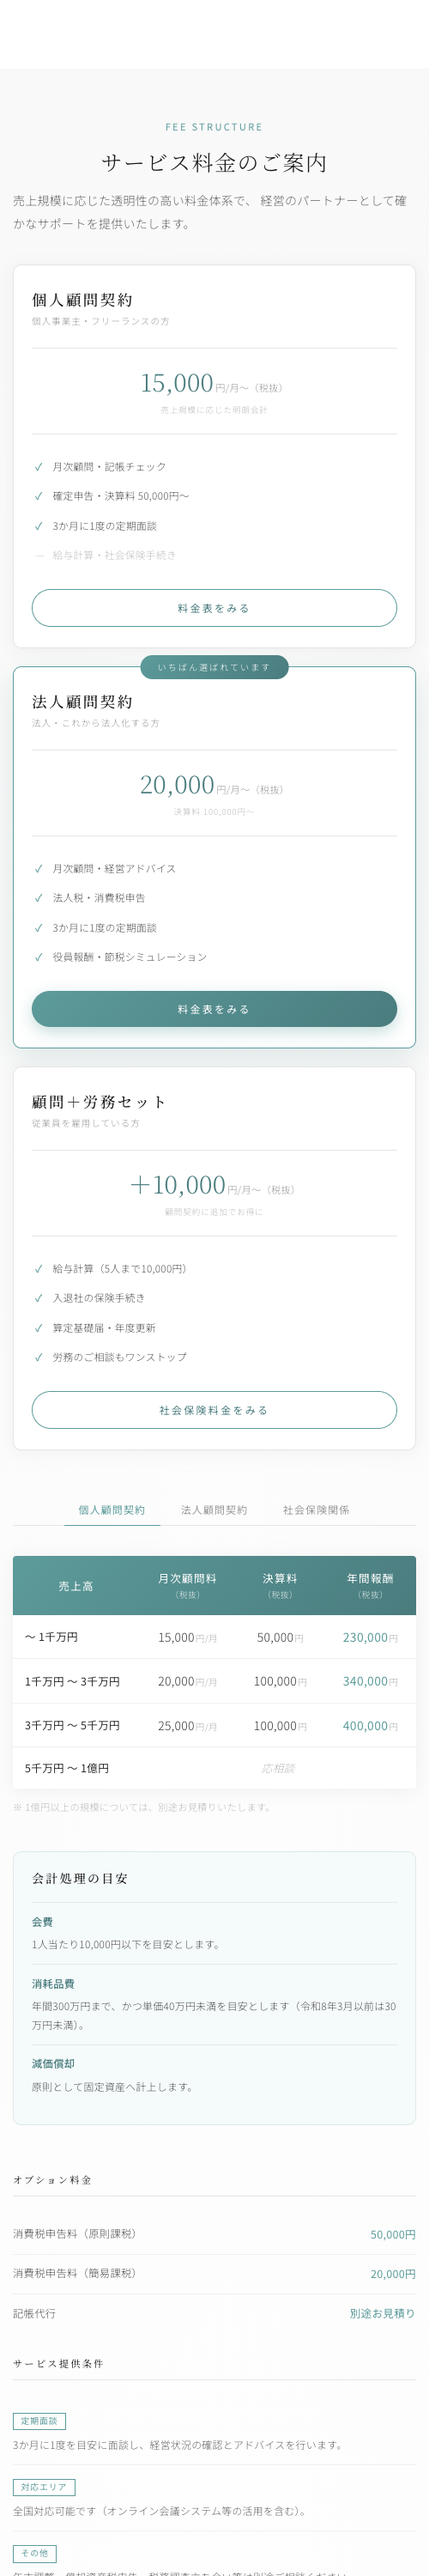
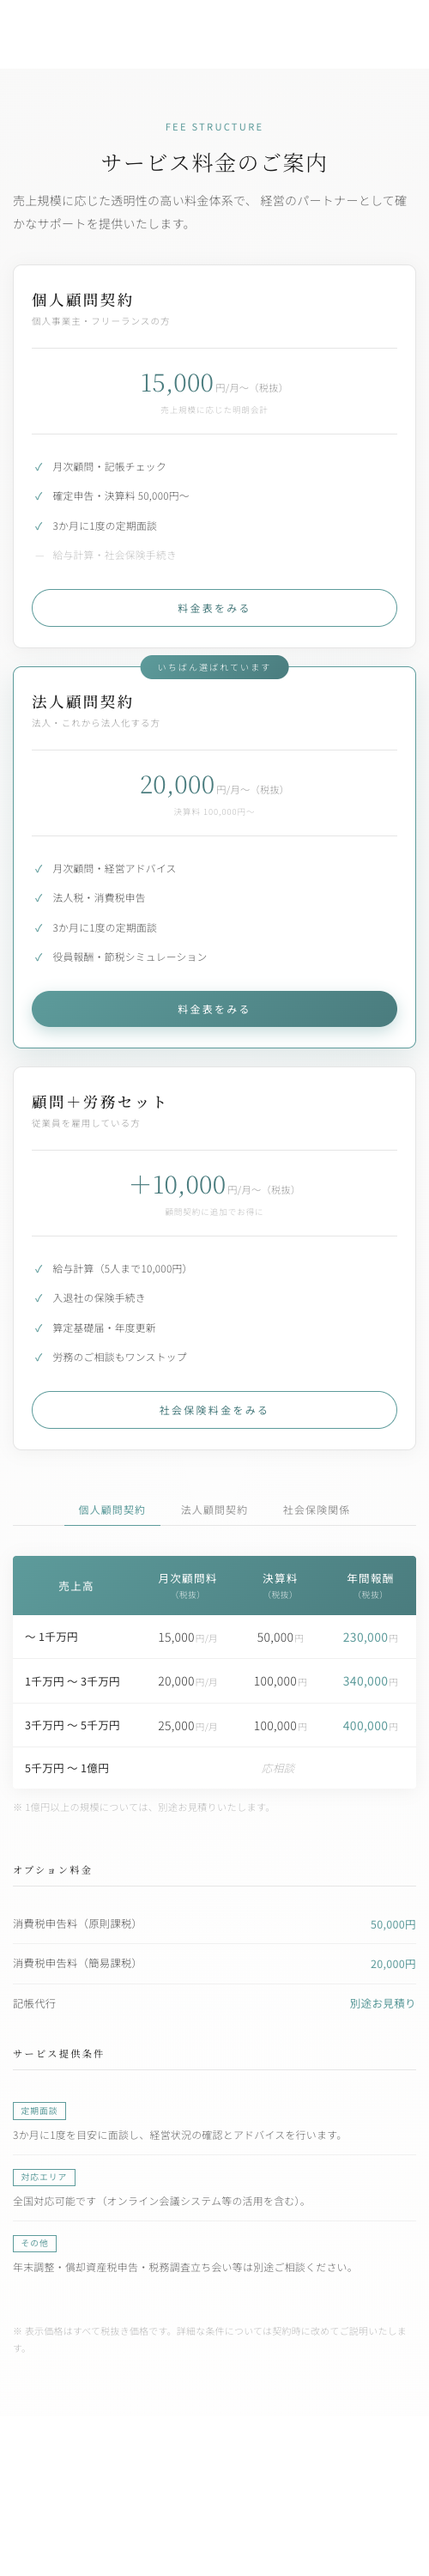
MIKANOS: 続けて — 完了

diff --git a/.ai/visual-parity/capture-pricing-parity.js b/.ai/visual-parity/capture-pricing-parity.js
@@ -1,0 +1,46 @@
+const { chromium } = require('/Users/FISH/.npm/_npx/e41f203b7505f1fb/node_modules/playwright');
+const path = require('path');
+
+const baseUrl = 'http://127.0.0.1:4173';
+const outputDir = path.resolve(__dirname);
+
+async function capture(page, url, output, width, height) {
+  await page.setViewportSize({ width, height });
+  await page.goto(url, { waitUntil: 'networkidle' });
+  await page.screenshot({
+    path: path.join(outputDir, output),
+    clip: { x: 0, y: 0, width, height },
+  });
+}
+
+(async () => {
+  const browser = await chromium.launch({
+    headless: true,
+    executablePath: '/Applications/Google Chrome.app/Contents/MacOS/Google Chrome',
+    args: ['--profile-directory=Profile 1'],
+  });
+  const page = await browser.newPage();
+
+  await capture(page, `${baseUrl}/design/html/pricing-cr001.html`, 'pricing-reference-1440.png', 1440, 5000);
+  await capture(page, `${baseUrl}/.ai/visual-parity/pricing-app-harness.html`, 'pricing-actual-1440.png', 1440, 5000);
+  await capture(page, `${baseUrl}/design/html/pricing-cr001.html`, 'pricing-reference-500.png', 500, 3000);
+  await capture(page, `${baseUrl}/.ai/visual-parity/pricing-app-harness.html`, 'pricing-actual-500.png', 500, 3000);
+
+  await page.setViewportSize({ width: 390, height: 844 });
+  await page.goto(`${baseUrl}/.ai/visual-parity/pricing-app-harness.html`, { waitUntil: 'networkidle' });
+  const removedTextCount = await page.getByText('会計処理の目安', { exact: true }).count();
+  const overflow = await page.evaluate(() => ({
+    pageScrollWidth: document.documentElement.scrollWidth,
+    pageClientWidth: document.documentElement.clientWidth,
+  }));
+  const corporateButton = page.locator('[data-tab-link="hojin"]');
+  await corporateButton.click();
+  const activeCorporateTab = await page.locator('#tab-hojin.active').count();
+
+  if (removedTextCount !== 0 || activeCorporateTab !== 1 || overflow.pageScrollWidth !== overflow.pageClientWidth) {
+    throw new Error(JSON.stringify({ removedTextCount, activeCorporateTab, overflow }));
+  }
+  process.stdout.write(`${JSON.stringify({ removedTextCount, activeCorporateTab, overflow })}\n`);
+
+  await browser.close();
+})();

diff --git a/components/pricing/pricing.css b/components/pricing/pricing.css
@@ -319,52 +319,6 @@
     font-weight: 300;
 }
 
-/* 会計処理の目安 */
-.accounting-guidance {
-    margin-top: 3rem;
-    padding: 2rem 2.25rem;
-    background: #f5fafa;
-    border: 1px solid #dceaea;
-    border-radius: 10px;
-}
-
-.accounting-guidance-title {
-    margin: 0 0 1.25rem;
-    color: #1a1a1a;
-    font-family: 'Noto Serif JP', serif;
-    font-size: 1rem;
-    font-weight: 500;
-    letter-spacing: 0.16em;
-}
-
-.accounting-guidance-list {
-    display: grid;
-    gap: 0;
-    margin: 0;
-}
-
-.accounting-guidance-item {
-    display: grid;
-    grid-template-columns: 8rem 1fr;
-    gap: 1.25rem;
-    padding: 0.9rem 0;
-    border-top: 1px solid #dceaea;
-}
-
-.accounting-guidance-item dt {
-    color: #4A7C7E;
-    font-size: 0.88rem;
-    font-weight: 500;
-}
-
-.accounting-guidance-item dd {
-    margin: 0;
-    color: #555;
-    font-size: 0.85rem;
-    font-weight: 300;
-    line-height: 1.8;
-}
-
 /* プラン概要カード */
 .plan-cards {
     display: grid;
@@ -697,14 +651,6 @@
         padding: 1.5rem 1.25rem;
     }
 
-    .accounting-guidance {
-        padding: 1.5rem;
-    }
-
-    .accounting-guidance-item {
-        grid-template-columns: 1fr;
-        gap: 0.35rem;
-    }
 }
 
 @media (max-width: 640px) {

diff --git a/design/html/pricing-cr001.css b/design/html/pricing-cr001.css
@@ -319,52 +319,6 @@
     font-weight: 300;
 }
 
-/* 会計処理の目安 */
-.accounting-guidance {
-    margin-top: 3rem;
-    padding: 2rem 2.25rem;
-    background: #f5fafa;
-    border: 1px solid #dceaea;
-    border-radius: 10px;
-}
-
-.accounting-guidance-title {
-    margin: 0 0 1.25rem;
-    color: #1a1a1a;
-    font-family: 'Noto Serif JP', serif;
-    font-size: 1rem;
-    font-weight: 500;
-    letter-spacing: 0.16em;
-}
-
-.accounting-guidance-list {
-    display: grid;
-    gap: 0;
-    margin: 0;
-}
-
-.accounting-guidance-item {
-    display: grid;
-    grid-template-columns: 8rem 1fr;
-    gap: 1.25rem;
-    padding: 0.9rem 0;
-    border-top: 1px solid #dceaea;
-}
-
-.accounting-guidance-item dt {
-    color: #4A7C7E;
-    font-size: 0.88rem;
-    font-weight: 500;
-}
-
-.accounting-guidance-item dd {
-    margin: 0;
-    color: #555;
-    font-size: 0.85rem;
-    font-weight: 300;
-    line-height: 1.8;
-}
-
 /* プラン概要カード */
 .plan-cards {
     display: grid;
@@ -697,14 +651,6 @@
         padding: 1.5rem 1.25rem;
     }
 
-    .accounting-guidance {
-        padding: 1.5rem;
-    }
-
-    .accounting-guidance-item {
-        grid-template-columns: 1fr;
-        gap: 0.35rem;
-    }
 }
 
 @media (max-width: 640px) {

diff --git a/components/pricing/pricing.html b/components/pricing/pricing.html
@@ -384,25 +384,6 @@
             </p>
         </div>
 
-        <!-- 会計処理の目安 -->
-        <aside class="accounting-guidance" aria-labelledby="accounting-guidance-title">
-            <h3 class="accounting-guidance-title" id="accounting-guidance-title">会計処理の目安</h3>
-            <dl class="accounting-guidance-list">
-                <div class="accounting-guidance-item">
-                    <dt>会費</dt>
-                    <dd>1人当たり10,000円以下を目安とします。</dd>
-                </div>
-                <div class="accounting-guidance-item">
-                    <dt>消耗品費</dt>
-                    <dd>年間300万円まで、かつ単価40万円未満を目安とします（令和8年3月以前は30万円未満）。</dd>
-                </div>
-                <div class="accounting-guidance-item">
-                    <dt>減価償却</dt>
-                    <dd>原則として固定資産へ計上します。</dd>
-                </div>
-            </dl>
-        </aside>
-
         <!-- オプション＋サービス提供条件 -->
         <div class="pricing-options">
             <div class="options-col">

diff --git a/design/html/pricing-cr001-fragment.html b/design/html/pricing-cr001-fragment.html
@@ -384,25 +384,6 @@
             </p>
         </div>
 
-        <!-- 会計処理の目安 -->
-        <aside class="accounting-guidance" aria-labelledby="accounting-guidance-title">
-            <h3 class="accounting-guidance-title" id="accounting-guidance-title">会計処理の目安</h3>
-            <dl class="accounting-guidance-list">
-                <div class="accounting-guidance-item">
-                    <dt>会費</dt>
-                    <dd>1人当たり10,000円以下を目安とします。</dd>
-                </div>
-                <div class="accounting-guidance-item">
-                    <dt>消耗品費</dt>
-                    <dd>年間300万円まで、かつ単価40万円未満を目安とします（令和8年3月以前は30万円未満）。</dd>
-                </div>
-                <div class="accounting-guidance-item">
-                    <dt>減価償却</dt>
-                    <dd>原則として固定資産へ計上します。</dd>
-                </div>
-            </dl>
-        </aside>
-
         <!-- オプション＋サービス提供条件 -->
         <div class="pricing-options">
             <div class="options-col">

diff --git a/docs/PIXEL_PARITY_REPORT.md b/docs/PIXEL_PARITY_REPORT.md
@@ -1,6 +1,6 @@
 # Pixel Parity Report
 
-- Status: passed (2026-08-11)
+- Status: passed (CR-002 revision, 2026-08-11 08:54 JST)
 - Required threshold: **0 changed pixels**
 - Evidence: `.ai/VISUAL_PARITY.yaml`
 
@@ -12,10 +12,11 @@
 全FrozenページについてHuman承認済みStandalone HTML renderingと最終アプリを比較する。
 1ピクセルでも違えば`needs_fix`。差分画像を見て修正し、0になるまで再撮影・再比較する。
 
-## CR-001 検証メモ
+## CR-002 検証メモ
 
 - Freeze固定ソース: `design/html/pricing-cr001.html` および同ディレクトリのHTML/CSS/JS
 - 実装比較ハーネス: `.ai/visual-parity/pricing-app-harness.html`
 - ImageMagick `compare -metric AE`: PC / mobile とも `0 (0)`
-- Chrome Profile 1の実アプリで法人ボタンを操作し、`tab-hojin` がactiveになることを確認
-- 390px実測: page `scrollWidth=390` / `clientWidth=390`、料金セクション `scrollWidth=360` / `clientWidth=360`
+- Chrome Profile 1の実アプリで対象文言0件、法人ボタン操作後に`tab-hojin`がactiveになることを確認
+- 390px実測: page `scrollWidth=390` / `clientWidth=390`
+- 画像はCR-002反映後の2026-08-11 08:54 JSTに再取得

diff --git a/.ai/DESIGN_FREEZE.md b/.ai/DESIGN_FREEZE.md
@@ -7,7 +7,8 @@ Design Freeze は Human Owner が承認するまで `pending` です。
 - status: approved
 - requested_at: 2026-08-10
 - approved_by: Human Owner（チャットユーザー）
-- approved_at: 2026-08-11T01:57:01+09:00
+- approved_at: 2026-08-11T08:50:00+09:00
+- revision: CR-002
 
 ## Freeze Targets
 
@@ -18,7 +19,7 @@ Design Freeze は Human Owner が承認するまで `pending` です。
 - Screen List: トップページ「サービス料金のご案内」
 - UI Master: `design/html/pricing-cr001.html`
 - Design System: `components/pricing/pricing.css`
-- UI Review Checklist: 法人導線、3項目の会計処理の目安、PC/モバイル表示
+- UI Review Checklist: 法人導線、「会計処理の目安」非表示、PC/モバイル表示
 
 ## Decisions
 
@@ -32,7 +33,7 @@ Design Freeze は Human Owner が承認するまで `pending` です。
 
 - Fable Advisor:
 - Claude Code:
-- Human Owner: approved 2026-08-11T01:57:01+09:00
+- Human Owner: CR-002 and updated Freeze approved 2026-08-11T08:50:00+09:00
 
 ## Change Rule
 

diff --git a/.ai/SPEC_FREEZE.md b/.ai/SPEC_FREEZE.md
@@ -7,11 +7,12 @@ Spec Freeze は Human Owner が承認するまで `pending` です。
 - status: approved
 - requested_at: 2026-08-10
 - approved_by: Human Owner（チャットユーザー）
-- approved_at: 2026-08-11T01:57:01+09:00
+- approved_at: 2026-08-11T08:50:00+09:00
+- revision: CR-002
 
 ## Freeze Targets
 
-- Functional Requirements: CR-001（個人・法人料金表導線、会計3注記）
+- Functional Requirements: CR-001の個人・法人料金表導線を維持し、CR-002により会計3注記を削除
 - Non-functional Requirements:
 - State:
 - Data:
@@ -31,4 +32,4 @@ Spec Freeze は Human Owner が承認するまで `pending` です。
 
 - Claude Code:
 - Security Reviewer:
-- Human Owner: approved 2026-08-11T01:57:01+09:00
+- Human Owner: CR-002 and updated Freeze approved 2026-08-11T08:50:00+09:00

diff --git a/docs/HTML_FREEZE_REVIEW.md b/docs/HTML_FREEZE_REVIEW.md
@@ -4,10 +4,10 @@
 
 - Status: approved
 - Approved by: Human Owner（チャットユーザー）
-- Approved at: 2026-08-11T01:57:01+09:00
+- Approved at: 2026-08-11T08:50:00+09:00（CR-002更新後Freeze）
 - Source: `design/html/pricing-cr001.html`
-- Scope: 法人顧問契約の料金表導線、会費・消耗品費・減価償却の注記
-- Browser verification: Chrome Profile 1 / PC 1440px / mobile 390px
+- Scope: 法人顧問契約の料金表導線を維持し、「会計処理の目安」を削除
+- Browser verification: Chrome Profile 1 / PC 1440px / mobile 500px・390px
 - Pixel parity: PC 0 changed pixels / mobile 0 changed pixels
 
 Prototype Generator が生成した単一 HTML の人間確認記録。承認まで React 実装へ進まない。
